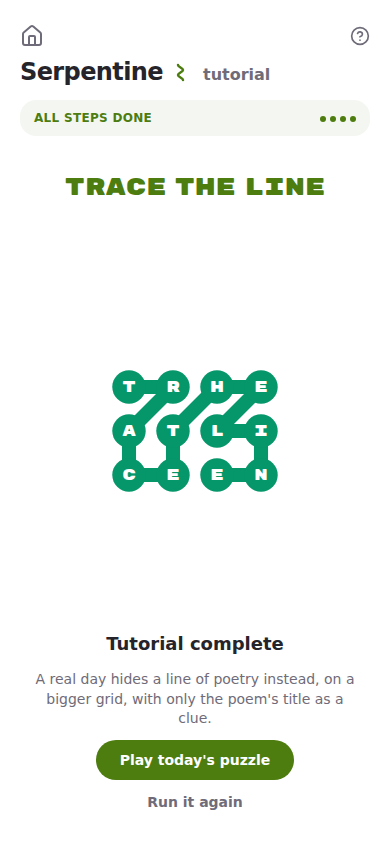
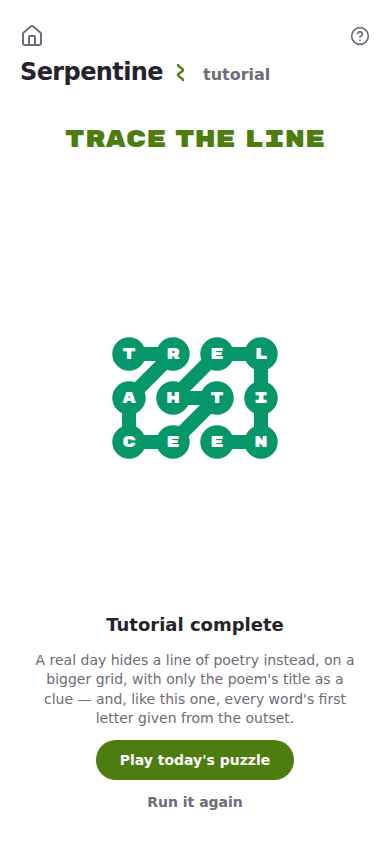
Serpentine: the tutorial teaches the crossing rule
The rule only ever refuses a WRONG move, which makes it invisible until
it refuses one — and then it reads as a bug, because the coach sheet no
longer auto-opens and the tutorial is the one screen with no hints to
fall back on. So the board stages the refusal instead of describing it.

The 3×4 grid is re-laid (same phrase, same 3 diagonals, first diagonal
still at index 2) so that at seven letters the line stands on H with
exactly two cells still touching it — and BOTH show an E, the letter it
needs. One sits across the diagonal already drawn from (2,1) to (1,2), so
taking it would cut through the line and the reducer refuses it; the
other is the answer. The closed cell is not a dead end either: the trace
comes back for it last, the long way round. Found by enumerating all 3196
non-crossing Hamiltonian paths on the grid and keeping one that stages the
choice with a duplicate letter.

Step four, "The line never crosses", fires at exactly that moment and
holds to the end, since the closed cell stays on the board until the last
move. Like the diagonal step it makes a positional claim, so it is gated
on `onSolutionPath` — a player who wandered off gets the undo
instruction instead. `tutorial.test.ts` asserts every clause of the copy
against the board: two touching cells, both E, exactly one crossing, the
crossing one not the solution's, and visited later.

Verified in the real build: the steps fire on cue, tapping the closed E
[…]

diff --git a/src/games/serpentine/engine/tutorial.ts b/src/games/serpentine/engine/tutorial.ts
@@ -3,8 +3,8 @@ import type { Cell, PuzzleDef } from "./types";
 /**
  * The tutorial puzzle: a 3×4 grid whose hidden phrase describes itself.
  *
- *     T R H E
- *     A T L I
+ *     T R E L
+ *     A H T I
  *     C E E N        ->  TRACE THE LINE
  *
  * The corpus can't supply this. Its shortest line is 25 letters (a 5×5
@@ -12,10 +12,24 @@ import type { Cell, PuzzleDef } from "./types";
  * randomised per date — a tutorial needs a FIXED path so the steps can
  * describe what is about to happen.
  *
- * The path is hand-laid with three diagonal moves, because that is the
- * rule players do not assume. It is not decoration: the next letter of the
- * phrase genuinely sits on the diagonal, so the trace cannot be completed
- * orthogonally.
+ * Two rules are hand-laid into it, because they are the two the grid alone
+ * never suggests:
+ *
+ * 1. THE DIAGONAL. Three moves are diagonal, and they are not decoration:
+ *    the next letter of the phrase genuinely sits on the corner, so the
+ *    trace cannot be completed orthogonally.
+ * 2. THE CROSSING. At `TUTORIAL_BLOCKED_TWIN` the line stands on H with
+ *    exactly two cells left touching it — and BOTH show an E, the letter
+ *    it needs. One of them, (2,2), sits across the diagonal already drawn
+ *    from (2,1) to (1,2), so taking it would cut through the line and the
+ *    reducer refuses it. The other, (0,2), is the solution. The blocked
+ *    cell is not a dead end either: the trace comes back for it last, the
+ *    long way round.
+ *
+ * That second lesson is why this layout and not another. A rule that only
+ * ever refuses a WRONG move is invisible until it refuses one, and the
+ * tutorial is the one screen with no hints to fall back on — so the board
+ * has to stage the refusal rather than describe it.
  *
  * No poem, so no credit — the screen hides PoemCredit in tutorial mode.
  * `id` deliberately avoids the h###/p### namespace the corpus uses, since
@@ -28,13 +42,13 @@ const TUTORIAL_PATH: Cell[] = [
   { row: 1, col: 0 }, // A  <- diagonal
   { row: 2, col: 0 }, // C
   { row: 2, col: 1 }, // E
-  { row: 1, col: 1 }, // T
-  { row: 0, col: 2 }, // H  <- diagonal
-  { row: 0, col: 3 }, // E
-  { row: 1, col: 2 }, // L  <- diagonal
+  { row: 1, col: 2 }, // T  <- diagonal, the arm that closes (1,1) -> (2,2)
+  { row: 1, col: 1 }, // H
+  { row: 0, col: 2 }, // E  <- diagonal, the open twin of the two Es
+  { row: 0, col: 3 }, // L
   { row: 1, col: 3 }, // I
   { row: 2, col: 3 }, // N
-  { row: 2, col: 2 }, // E
+  { row: 2, col: 2 }, // E  <- the blocked twin, reached the long way round
 ];
 
 export const TUTORIAL_PUZZLE: PuzzleDef = {
@@ -45,8 +59,8 @@ export const TUTORIAL_PUZZLE: PuzzleDef = {
   rows: 3,
   cols: 4,
   grid: [
-    ["T", "R", "H", "E"],
-    ["A", "T", "L", "I"],
+    ["T", "R", "E", "L"],
+    ["A", "H", "T", "I"],
     ["C", "E", "E", "N"],
   ],
   text: "TRACE THE LINE",
@@ -56,25 +70,36 @@ export const TUTORIAL_PUZZLE: PuzzleDef = {
   blocked: new Set<string>(),
 };
 
-/** Index into TUTORIAL_PATH of the first move that is diagonal. */
+/**
+ * Path length at which the NEXT move is the first diagonal one.
+ *
+ * Both this and `TUTORIAL_BLOCKED_TWIN` are read the same way: the number
+ * of cells traced when the move about to be made is the one the step
+ * describes — so each is the index of the cell that move places.
+ */
 export const TUTORIAL_FIRST_DIAGONAL = 2;
+
+/**
+ * Path length at which the next letter shows on two touching cells, one of
+ * them closed by the line's own diagonal. See the crossing lesson above.
+ */
+export const TUTORIAL_BLOCKED_TWIN = 7;
 
 /**
  * How many steps the script has — the index that means "finished".
  *
- * Three, not four: the puzzle now opens with its first letter already
- * placed, so the old "tap a cell to begin" beat has no move to describe.
- * Its one useful line — extend to a touching cell, tap a placed cell to
- * undo — is what step one says instead.
+ * Four: the opening beat ("tap a cell to begin") went when the puzzle
+ * started giving the first letter, and the crossing lesson took its place
+ * at the other end of the trace.
  */
-export const TUTORIAL_STEP_COUNT = 3;
+export const TUTORIAL_STEP_COUNT = 4;
 
 /**
  * True when the traced cells are EXACTLY the solution's first N cells.
  *
  * The reducer accepts any adjacent move — it only checks the phrase at the
  * end — so a player can wander off down a route that spells nothing. The
- * step script has to know the difference, because one of its steps makes a
+ * step script has to know the difference, because two of its steps make a
  * claim about where the next letter is.
  */
 export function onSolutionPath(cells: readonly Cell[]): boolean {
@@ -94,14 +119,18 @@ export function tutorialStepIndex(s: {
 }): number {
   if (s.solved) return TUTORIAL_STEP_COUNT;
   const n = s.cells.length;
-  // "Corners count too" tells the player the NEXT letter is diagonal, so it
-  // may only appear when that is actually true: on the solution path, with
-  // exactly the cells before the first diagonal traced. Anywhere else —
+  // Both position-aware steps tell the player where the next letter is, so
+  // they may only appear when that is actually true: on the solution path,
+  // with exactly the cells before the move traced. Anywhere else —
   // including off down a wrong route, and including the untouched board,
   // which is the given letter alone — "tap a placed cell to undo back to
   // it" is the instruction that helps, so hold at that step instead.
   if (!onSolutionPath(s.cells)) return 0;
   if (n < TUTORIAL_FIRST_DIAGONAL) return 0;
   if (n === TUTORIAL_FIRST_DIAGONAL) return 1;
+  // The crossing step stays up for the rest of the trace rather than
+  // handing back to "cover every letter" — the blocked cell is still on
+  // the board, waiting to be reached the long way round.
+  if (n >= TUTORIAL_BLOCKED_TWIN) return 3;
   return 2;
 }

diff --git a/src/games/serpentine/engine/tutorial.test.ts b/src/games/serpentine/engine/tutorial.test.ts
@@ -3,6 +3,7 @@ import { allPoemEntries } from "./puzzles";
 import { areAdjacent, cellKey } from "./types";
 import { checkSolved, pathSelfCrosses, validatePuzzle } from "./validation";
 import {
+  TUTORIAL_BLOCKED_TWIN,
   TUTORIAL_FIRST_DIAGONAL,
   onSolutionPath,
   TUTORIAL_PUZZLE,
@@ -61,6 +62,51 @@ describe("the tutorial puzzle", () => {
     }
   });
 
+  it("stages the crossing rule: two touching Es, one closed by the line", () => {
+    // The lesson step four makes a claim about. Everything it says has to
+    // be true of the board at exactly that moment, or the tutorial teaches
+    // a lie on the one screen with no hints to fall back on.
+    const traced = TUTORIAL_PUZZLE.path.slice(0, TUTORIAL_BLOCKED_TWIN);
+    const tail = traced[traced.length - 1];
+    const seen = new Set(traced.map(cellKey));
+    const letterAt = (c: { row: number; col: number }) =>
+      TUTORIAL_PUZZLE.grid[c.row][c.col];
+
+    const touching = [];
+    for (let dr = -1; dr <= 1; dr++) {
+      for (let dc = -1; dc <= 1; dc++) {
+        if (!dr && !dc) continue;
+        const c = { row: tail.row + dr, col: tail.col + dc };
+        if (c.row < 0 || c.row >= TUTORIAL_PUZZLE.rows) continue;
+        if (c.col < 0 || c.col >= TUTORIAL_PUZZLE.cols) continue;
+        if (!seen.has(cellKey(c))) touching.push(c);
+      }
+    }
+
+    // "Both cells left touching yours show an E."
+    expect(touching).toHaveLength(2);
+    const needed = letterAt(TUTORIAL_PUZZLE.path[TUTORIAL_BLOCKED_TWIN]);
+    expect(needed).toBe("E");
+    expect(touching.map(letterAt)).toEqual([needed, needed]);
+
+    // "The one across the line you drew is closed" — exactly one of the two
+    // crosses, and it is NOT the one the solution takes.
+    const crosses = touching.filter(
+      (c) => pathSelfCrosses([...traced, c]),
+    );
+    expect(crosses).toHaveLength(1);
+    expect(cellKey(crosses[0])).not.toBe(
+      cellKey(TUTORIAL_PUZZLE.path[TUTORIAL_BLOCKED_TWIN]),
+    );
+
+    // "Come back for it later" — the closed cell is a detour, not a dead
+    // end, so the player is never told to abandon a letter.
+    const later = TUTORIAL_PUZZLE.path.findIndex(
+      (c) => cellKey(c) === cellKey(crosses[0]),
+    );
+    expect(later).toBeGreaterThan(TUTORIAL_BLOCKED_TWIN);
+  });
+
   it("carries no poem credit to print", () => {
     // The tutorial's phrase is an instruction, not verse — the screen hides
     // PoemCredit for it, and there is no author to attribute.
@@ -105,6 +151,16 @@ describe("tutorialStepIndex", () => {
   it("advances at the diagonal, then past it", () => {
     expect(at({ cells: path(TUTORIAL_FIRST_DIAGONAL) })).toBe(1);
     expect(at({ cells: path(TUTORIAL_FIRST_DIAGONAL + 1) })).toBe(2);
+  });
+
+  it("advances at the blocked twin and stays there to the end", () => {
+    expect(at({ cells: path(TUTORIAL_BLOCKED_TWIN - 1) })).toBe(2);
+    expect(at({ cells: path(TUTORIAL_BLOCKED_TWIN) })).toBe(3);
+    // The closed cell is still on the board until the last move, so the
+    // lesson holds rather than handing back to "cover every letter".
+    for (let n = TUTORIAL_BLOCKED_TWIN; n <= TUTORIAL_PUZZLE.path.length; n++) {
+      expect(at({ cells: path(n) })).toBe(3);
+    }
   });
 
   it("reports the script finished only when solved", () => {

diff --git a/src/games/serpentine/ui/tutorialSteps.tsx b/src/games/serpentine/ui/tutorialSteps.tsx
@@ -2,8 +2,11 @@ import { Key } from "../../../components/CoachSheet";
 import type { TutorialStep } from "../../../lib/tutorial/types";
 
 /**
- * The tutorial script. Step two arrives exactly when the path needs its
- * first diagonal, which is the rule the grid alone never suggests.
+ * The tutorial script. Two of the steps arrive at an exact moment in the
+ * trace, because they describe what the board is doing right then: step
+ * two when the path needs its first diagonal, step four when the letter it
+ * needs shows on two touching cells and the line has closed one of them.
+ * Those are the two rules the grid alone never suggests.
  *
  * Bodies are two lines at the default text size — the banner's height
  * budget (TUTORIAL_BANNER_H) is sized for that.
@@ -32,6 +35,15 @@ export const TUTORIAL_STEPS: TutorialStep[] = [
     body: (
       <>
         One unbroken line has to visit <Key>every cell</Key>.
+      </>
+    ),
+  },
+  {
+    title: "The line never crosses",
+    body: (
+      <>
+        Two <Key>E</Key>s touch the line. Only one is <Key>open</Key> — the
+        other would cut across.
       </>
     ),
   },

diff --git a/docs/tutorials.md b/docs/tutorials.md
@@ -275,46 +275,58 @@ AM, US and GO read across; MUG and SO read down.
 
 The corpus can't supply this — its shortest line is 25 letters, and every
 corpus layout is randomised per date, whereas a tutorial needs a fixed path the
-steps can describe. Three of the moves are diagonal, and they are load-bearing:
+steps can describe. Two rules are hand-laid into the board, because they are the
+two the grid alone never suggests.
+
+**The diagonal.** Three of the moves are diagonal, and they are load-bearing:
 the next letter genuinely sits on the corner, so the trace cannot be completed
 by orthogonal moves alone.
 
+**The crossing.** At step four the line stands on the H with exactly two cells
+still touching it — and both show an E, the letter it needs. One of them sits
+across the diagonal the line already drew, so taking it would cut through the
+line and the board refuses it; the other is the answer. The closed cell is not
+lost either, since the trace comes back for it last, the long way round. A rule
+that only ever refuses a wrong move is invisible until it refuses one, and the
+tutorial is the one screen with no hints to fall back on, so the board stages
+the refusal rather than describing it.
+
 | Step | |
 | --: | :-- |
-| 1 | Start the line |
-| 2 | Follow the letters |
-| 3 | Corners count too |
-| 4 | Cover every letter |
+| 1 | Follow the letters |
+| 2 | Corners count too |
+| 3 | Cover every letter |
+| 4 | The line never crosses |
 
 <details>
 <summary>Full-size frames</summary>
 
-**1 · Start the line**
+**1 · Follow the letters**
 
 <picture>
-  <source media="(prefers-color-scheme: dark)" srcset="tutorials/serpentine-1-blank-grid-dark.png">
-  <img alt="Serpentine tutorial, Start the line" src="tutorials/serpentine-1-blank-grid-light.png" width="390">
+  <source media="(prefers-color-scheme: dark)" srcset="tutorials/serpentine-1-first-letter-dark.png">
+  <img alt="Serpentine tutorial, Follow the letters" src="tutorials/serpentine-1-first-letter-light.png" width="390">
 </picture>
 
-**2 · Follow the letters**
+**2 · Corners count too**
 
 <picture>
-  <source media="(prefers-color-scheme: dark)" srcset="tutorials/serpentine-2-first-cell-dark.png">
-  <img alt="Serpentine tutorial, Follow the letters" src="tutorials/serpentine-2-first-cell-light.png" width="390">
+  <source media="(prefers-color-scheme: dark)" srcset="tutorials/serpentine-2-at-the-diagonal-dark.png">
+  <img alt="Serpentine tutorial, Corners count too" src="tutorials/serpentine-2-at-the-diagonal-light.png" width="390">
 </picture>
 
-**3 · Corners count too**
+**3 · Cover every letter**
 
 <picture>
-  <source media="(prefers-color-scheme: dark)" srcset="tutorials/serpentine-3-at-the-diagonal-dark.png">
-  <img alt="Serpentine tutorial, Corners count too" src="tutorials/serpentine-3-at-the-diagonal-light.png" width="390">
+  <source media="(prefers-color-scheme: dark)" srcset="tutorials/serpentine-3-covering-dark.png">
+  <img alt="Serpentine tutorial, Cover every letter" src="tutorials/serpentine-3-covering-light.png" width="390">
 </picture>
 
-**4 · Cover every letter**
+**4 · The line never crosses**
 
 <picture>
-  <source media="(prefers-color-scheme: dark)" srcset="tutorials/serpentine-4-diagonal-taken-dark.png">
-  <img alt="Serpentine tutorial, Cover every letter" src="tutorials/serpentine-4-diagonal-taken-light.png" width="390">
+  <source media="(prefers-color-scheme: dark)" srcset="tutorials/serpentine-4-blocked-twin-dark.png">
+  <img alt="Serpentine tutorial, The line never crosses" src="tutorials/serpentine-4-blocked-twin-light.png" width="390">
 </picture>
 
 **5 · Tutorial complete**
